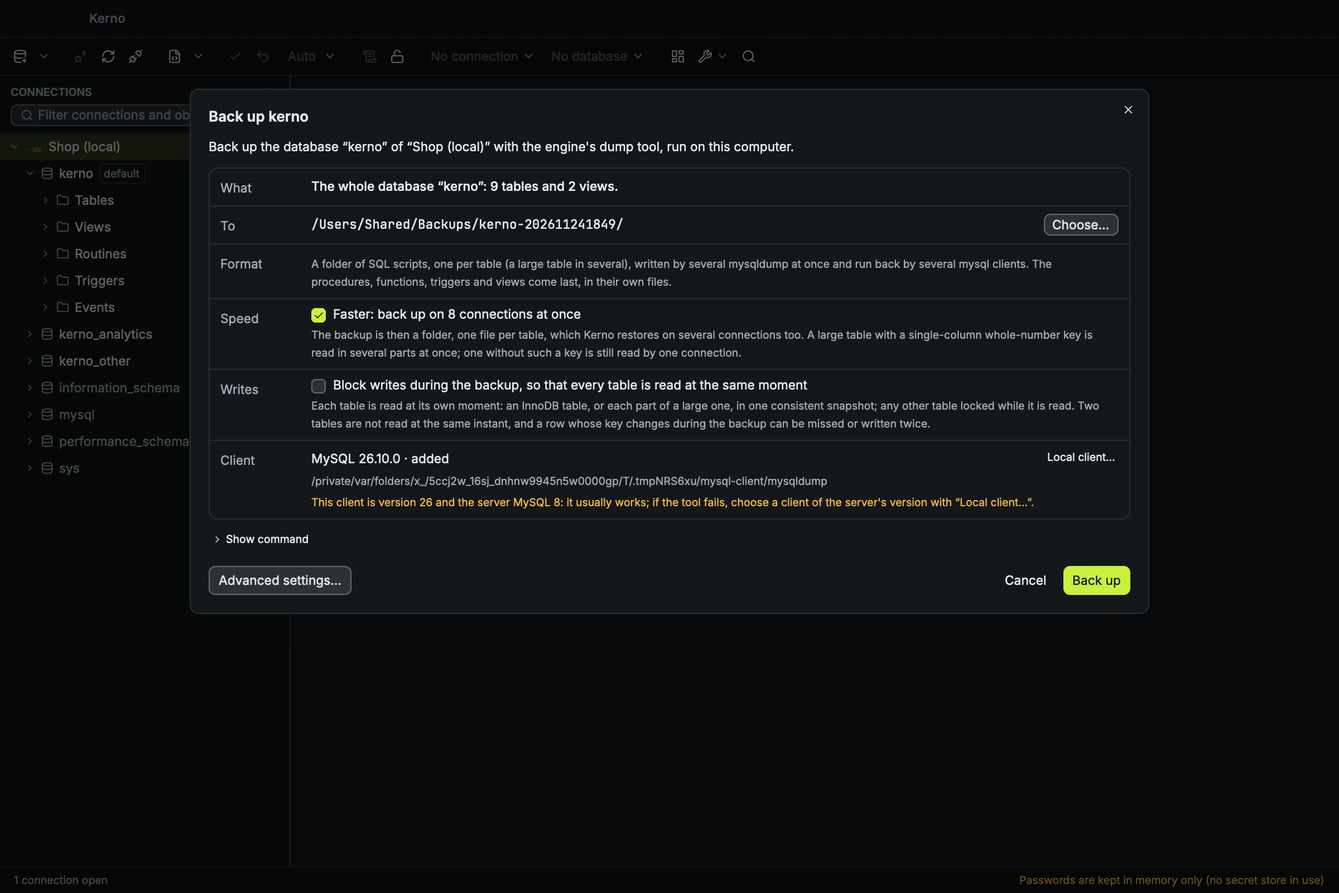
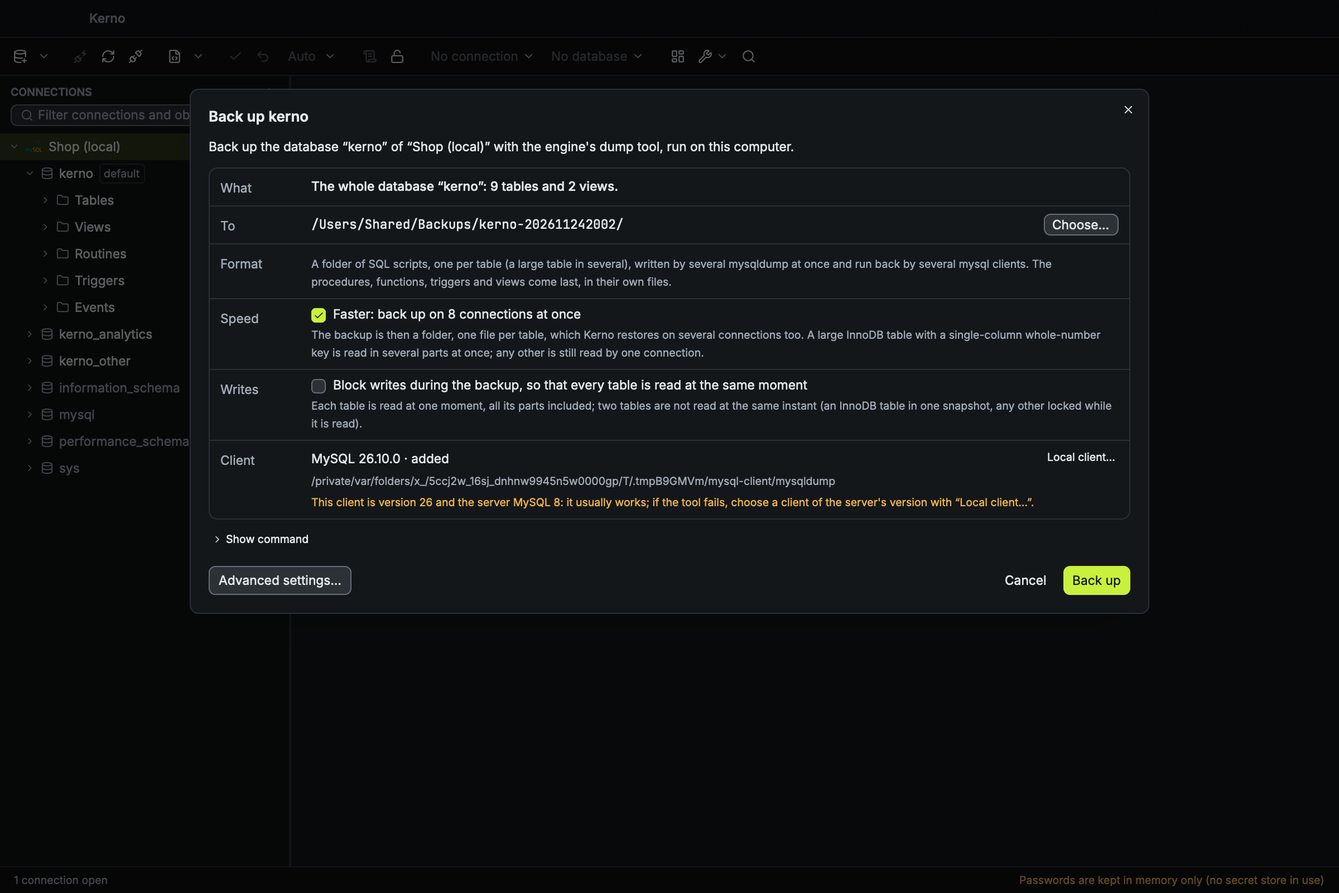
docs: K63's review, F1 to F9, D-135 amended, captures again
Claude-Session: https://claude.ai/code/session_01NqMSmdUNsq6S4HrmKZnkEG

diff --git a/docs/FEATURES.md b/docs/FEATURES.md
@@ -228,7 +228,7 @@ Tests: `crates/kerno/src/ui_tests.rs`, `crates/kerno/src/import_dialog.rs`, `cra
 | G3 A PostgreSQL restore whose backup names a role the server does not have (K35, D-108): the failure view says first which role and that the server has none (asked of the server; otherwise that the server would not let the user use it), then what to do, the tool's output below as before; read from the SQL the tool printed (pg_restore's failed command, psql's script line), in any language; an archive restored in one transaction gets "Restore without owners and privileges…" (`--no-owner --no-privileges`, shown and asked as any restore, twice on production; a run that went on past it says so), a plain script no button but what to do (create the role, or back up as an archive); the simple restore's "Leave out the backup's owners and privileges" for archives, off by default, in step with the wizard's two checkboxes | done | core `tools::roles::tests::{the_owner_case_is_read_in_either_language, the_privilege_case_names_only_the_refused_role, a_quoted_role_name_is_unquoted, a_failure_not_about_a_role_names_none, psql_points_at_the_script_line}`; unit `backup_dialog::tests::a_refused_role_is_said_with_what_to_do`; UI `ui_tests/restore_roles.rs`: `a_missing_owner_is_said_and_the_restore_runs_again_without_owners`, `a_plain_script_says_what_to_do_without_a_retry`, `an_archive_from_another_server_restores_without_its_owners` | to take: `m12-restore-roles-{light,dark}` |
 | G3 A PostgreSQL restore whose archive needs an extension the server does not have (K39, D-112): before Start, the archive's list (`pg_restore --list`) and the server (`pg_available_extensions`, `pg_roles`) say which extensions and owning roles it lacks, in plain words above the settings (simple view and wizard); the extensions are left out through `--use-list` (ticked by default, the command saying what it leaves out), the owners' box ticked; nothing shown when the server has everything or cannot be asked; a failed `CREATE EXTENSION` said after the run too (any language), with one retry leaving out the extension and the owners at once | done | core `tools::archive::tests::{the_list_names_its_database_extensions_and_owners, leaving_an_extension_out_comments_its_entries, a_failed_extension_is_read_in_any_language}`, `tools::tests::each_restore_option_gives_its_argument`; unit `backup_dialog::tests::a_missing_extension_is_said_with_what_to_do`; UI `ui_tests/restore_extensions.rs`: `what_the_server_lacks_is_said_and_left_out_before_the_run`, `a_failed_extension_and_owner_are_said_and_one_retry_leaves_out_both`, `a_real_archive_restores_without_a_left_out_extension` | none: the owner checks it in the app |
 | G3 A faster backup (K48, D-117): the simple PostgreSQL backup's "Faster: back up on N connections at once" (N the machine's cores, 8 at most; off by default; shown beside the compressed archive) writes pg_dump's directory archive with `--jobs=N`, a folder: the "To" row ends with a slash, the save panel names the folder as typed, the end says the folder's size, Show in Finder; a failed or cancelled run removes only the folder it made (one already there is refused before the run, and again just before pg_dump starts); unticking or the script gives the single file back; the wizard shows the directory format and its jobs, a task keeps them, and the way back is not a hidden change (the simple restore's "Faster" too); the folder is restored from the simple restore (open panel or typed), on several connections | done | core `tools::tests::parallel_jobs_go_with_the_directory_format_only`; UI (`ui_tests/backup_simple.rs`): `faster_backs_up_into_a_folder_and_the_wizard_shows_it`, `the_simple_restores_faster_is_not_a_hidden_change`, `a_faster_backup_removes_only_the_folder_it_made`, `a_faster_backup_is_a_folder_the_simple_restore_reads_back` (real pg_dump and pg_restore) | offscreen, not committed (D-117) |
-| G3 A faster backup and restore for MySQL and MariaDB (K63, D-135): the simple backup's "Faster: back up on N connections at once" (N as K48's; off by default) writes a folder of SQL files, one per table, by N `mysqldump` at once, a table of at least 32 MiB with a single-column integer key cut into N key ranges, then the routines, triggers and events and the views in their own files, and `kerno-backup.json` last; "Block writes during the backup, so that every table is read at the same moment" (off by default; Kerno's own `FLUSH TABLES WITH READ LOCK`, asked first with its statement, twice on production; said and not offered without RELOAD), the other way said in plain words; the wizard's Format (Plain SQL / Folder) and Jobs, a task keeps them, the way back not a hidden change; cancel and failure stop every mysqldump, release the lock, remove only the folder the run made; the restore takes the folder (open panel or typed) and its "Faster" loads it on N clients (a table's ranges side by side on InnoDB), every file checked for client commands first, a failure saying which table, the server's error and what is in; an old server's client said before the run (mysqldump 8.4 and later, and MariaDB's 11.8, on MySQL 5.1; MariaDB's on 5.5 and 5.6), Start refused, a MySQL 5.7 client found named; "prefer" without TLS for the tools on 5.1 and 5.5 | done | core `tools::mysql_folder::tests::*` (8), `tools::tests::archives_are_told_from_scripts`; drivers (`kerno-mysql/tests/folder_backup.rs`): `a_folder_backup_restores_identical_on_every_server` (8.4, MariaDB 11, 5.1 to 5.7), `a_cancelled_backup_leaves_no_tool_no_folder_and_no_lock` (8.4, 5.1), `a_failed_restore_says_what_is_in_and_a_refused_one_loads_nothing`, `a_client_that_cannot_read_5_1_is_refused_and_its_empty_backup_fails`, `the_account_s_reload_privilege_is_read`; UI (`ui_tests/mysql_folder.rs`): `a_faster_mysql_backup_is_a_folder_the_restore_loads_on_several_clients` (real mysqldump and mysql), `the_consistency_choice_is_said_and_needs_reload`, `an_old_server_needs_an_old_client` | `m12-mysql-faster-backup-{light,dark}`, `m12-mysql-faster-backup-restore-{light,dark}`, `m12-mysql-faster-backup-old-client-{light,dark}` |
+| G3 A faster backup and restore for MySQL and MariaDB (K63, D-135): the simple backup's "Faster: back up on N connections at once" (N as K48's; off by default) writes a folder of SQL files, one per table, by N `mysqldump` at once, an InnoDB table of at least 32 MiB with a single-column integer key cut into N key ranges that start together under Kerno's lock of that table (one moment per table), then the routines, triggers and events and the views in their own files, and `kerno-backup.json` last; "Block writes during the backup, so that every table is read at the same moment" (off by default; Kerno's own `FLUSH TABLES WITH READ LOCK`, asked first with its statement, twice on production; said and not offered without RELOAD; taken before the tables are listed, watched during the run, a lost lock failing the run, one that does not come within 10 s stopping the start, the confirmation naming long queries), the other way said in plain words; named tables that are gone stop the run; the options the folder sets refused in the extra arguments; `utf8mb4` with servers that have it (plain backup too); a plain backup whose client read no column fails; a restore into a database that is not empty said before the run; the wizard's Format (Plain SQL / Folder) and Jobs, a task keeps them, the way back not a hidden change; cancel and failure stop every mysqldump, release the lock, remove only the folder the run made; the restore takes the folder (open panel or typed) and its "Faster" loads it on N clients (a table's ranges side by side on InnoDB), every file checked for client commands first, a failure saying which table, the server's error and what is in; an old server's client said before the run (mysqldump 8.4 and later, and MariaDB's 11.8, on MySQL 5.1; MariaDB's on 5.5 and 5.6), Start refused, a MySQL 5.7 client found named; "prefer" without TLS for the tools on 5.1 and 5.5 | done | core `tools::mysql_folder::tests::*` (13), `tools::tests::archives_are_told_from_scripts`; drivers (`kerno-mysql/tests/folder_backup.rs`): `a_folder_backup_restores_identical_on_every_server` (8.4, MariaDB 11, 5.1 to 5.7), `a_cancelled_backup_leaves_no_tool_no_folder_and_no_lock` (8.4, 5.1), `a_failed_restore_says_what_is_in_and_a_refused_one_loads_nothing`, `a_client_that_cannot_read_5_1_is_refused_and_its_empty_backup_fails`, `the_account_s_reload_privilege_is_read`, `the_read_lock_holds_writes_until_the_end`, `a_lost_read_lock_fails_the_backup`, `named_tables_that_are_gone_stop_the_backup`, `every_range_of_a_table_reads_one_moment`, `a_read_lock_that_does_not_come_stops_the_start`, `the_sizes_are_read_fresh_and_only_a_table_above_the_threshold_is_cut`; UI (`ui_tests/mysql_folder.rs`): `a_faster_mysql_backup_is_a_folder_the_restore_loads_on_several_clients` (real mysqldump and mysql), `the_consistency_choice_is_said_and_needs_reload`, `an_old_server_needs_an_old_client`, `a_plain_backup_that_read_no_column_fails_and_removes_its_file` | `m12-mysql-faster-backup-{light,dark}`, `m12-mysql-faster-backup-restore-{light,dark}`, `m12-mysql-faster-backup-old-client-{light,dark}` |
 | G3 Objects picked in lists: schemas, the tables of a schema, All / None, complete backup, show views; the file holds only what is ticked | done | `a_backup_picks_objects_in_a_tree_and_writes_the_file`, `a_table_is_backed_up_alone_from_the_tree` | `final/backup-objects-light.png` (and -dark) |
 | G3 The tools' real options (pg_dump: format plain / custom / directory / tar, compression, encoding, INSERTs, no privileges, no owner, clean + if exists, create, jobs; mysqldump: consistency, routines, events, triggers, extended inserts, DROP TABLE, keys, hex, comments; pg_restore: clean, if exists, create, no owner, no privileges, jobs, one transaction; mysql: foreign-key checks off, log level, no beep; pg_dumpall: globals / roles / tablespaces only, schema only, role passwords, excluded databases), refused in core where the tool or the format has none; output folder + file name pattern with DBeaver's variables and a preview; extra arguments (refused when they change the server, the user, TLS or the password, or undo a protection); another user for one run | done | `the_options_page_changes_the_command`, `a_restore_asks_with_its_command_and_restores`; core: `each_pg_dump_option_gives_its_argument`, `pg_dump_refuses_what_it_cannot_do`, `each_mysqldump_option_gives_its_argument`, `each_pg_dumpall_option_gives_its_argument`, `each_restore_option_gives_its_argument`, `a_script_runs_like_a_restore_without_a_transaction`, `extra_arguments_are_split_like_a_shell`, `extra_arguments_that_change_the_route_or_carry_a_password_are_refused`, `another_user_runs_the_tool_and_no_secret_is_kept`, `file_names_fill_the_variables`, `archives_are_told_from_scripts` | `final/backup-settings-light.png` (and -dark) |
 | G3 A restore or a script asks with its command (twice on production, refused on read-only; `--create` names the archive's database it creates); a SQL file cannot run commands on this computer unasked: its check is a step of its own, the opt-in never pre-checked | done | `a_restore_asks_twice_on_production_and_is_refused_on_read_only`, `the_restore_confirmation_names_what_it_runs_and_what_a_failure_keeps`, `a_file_with_client_commands_is_refused_until_explicitly_allowed`, `a_restore_uses_the_client_sandbox_or_a_check_unless_allowed` | `m8-restore-light.png` (before the wizard) |

diff --git a/docs/DECISIONS.md b/docs/DECISIONS.md
@@ -4644,8 +4644,8 @@ stock tools, on every supported version (`kerno_core::tools::mysql_folder`).
   file per table") and Jobs; a task keeps them; the way back to the simple view is not a hidden change.
   "Block writes" is the existing "Lock all tables" (`DumpMethod::LockAllTables`) of the folder backup: a global
   read lock for the whole dump, as mysqldump's own option means, held by Kerno for all the processes.
-- **The ranges.** A table of at least `RANGE_THRESHOLD` (32 MiB of `DATA_LENGTH`, measured: see BENCH.md)
-  whose primary key is one integer column is cut into N ranges of equal key span between `MIN` and `MAX`, the
+- **The ranges.** An InnoDB table of at least `RANGE_THRESHOLD` (32 MiB of `DATA_LENGTH`, measured: see
+  BENCH.md) whose primary key is one integer column is cut into N ranges of equal key span between `MIN` and `MAX`, the
   first open below and the last open above: together they hold every integer once (tested as a property),
   so a row inserted during the backup below the minimum or above the maximum is in one of them. A sparse or
   skewed key gives ranges of unequal size: still correct, less gain. An empty table, a composite or
@@ -4653,27 +4653,56 @@ stock tools, on every supported version (`kerno_core::tools::mysql_folder`).
   nothing, and the hint says so. The sizes are read with `information_schema_stats_expiry = 0` on MySQL 8.0.3
   and later, whose cached sizes would otherwise be up to a day old; InnoDB's own size estimate still lags a bulk
   load by a few seconds.
-- **Consistency, in plain words in the wizard.** Off by default, each mysqldump reads at its own moment: an
-  InnoDB table (or range) with `--single-transaction`, any other table under `--lock-tables` (that one table,
-  while it is read). Two tables are not read at the same instant, and a row whose key is updated during the
-  backup can move from a range not yet read to one already read (missed) or the other way (written twice,
-  and the restore then stops on a duplicate key): the hint says it. Ticked, Kerno's own session holds `FLUSH
-  TABLES WITH READ LOCK` from before the first mysqldump until the last has ended, each mysqldump then with
-  `--skip-lock-tables`. It needs RELOAD (read from `information_schema.USER_PRIVILEGES` for `CURRENT_USER()`;
+- **Inside a table, one moment; across tables, each its own** (amended after the review, F4: the first
+  version let each range be its own snapshot, so a row whose key changed between two ranges' starts could be
+  lost, or written twice; the owner refused that). The ranges of a table start together while Kerno's session
+  holds `LOCK TABLES t READ`, released once every range's mysqldump has taken its snapshot: the signal is its
+  `--verbose` line "Retrieving table structure for table", which follows its `START TRANSACTION WITH
+  CONSISTENT SNAPSHOT` on every client tried (5.5 to 26.10, MariaDB's 11.8, on MySQL 5.1 to 8.4 and MariaDB
+  11). Writers of that table wait for those few tens of milliseconds; 30 s without every signal releases the
+  lock and fails the backup. A lock that does not come within 10 s, or is refused (no LOCK TABLES privilege),
+  dumps that table whole by one process, and the log says so. Only InnoDB tables are cut: a MyISAM or MEMORY
+  table has no snapshot, so it is read whole under `--lock-tables` (a choice the owner asked to weigh: keeping
+  Kerno's lock for the whole read of a cut MyISAM table would block its writers as long, for a gain at backup
+  only, since its ranges load one after the other). Across tables, each mysqldump reads at its own moment (an
+  InnoDB table with `--single-transaction`, any other under `--lock-tables`): two tables are not read at the
+  same instant, and the wizard says so in plain words. **"Block writes"** (off by default): Kerno's own session
+  holds `FLUSH TABLES WITH READ LOCK`, taken before the catalog is read (F8, as `--lock-all-tables`), until the
+  last mysqldump has ended, each mysqldump then with `--skip-lock-tables`. That session gets a long
+  `wait_timeout` and a `lock_wait_timeout` of 10 s (5.5 on; Kerno's own timer on 5.1); its `CONNECTION_ID()` is
+  checked every 2 s and at the end, and a lost session, another id or a failed `UNLOCK TABLES` fails the backup
+  in plain words ("The lock that kept writes out was lost at 21:04:12 …") and removes the folder (F2). A lock
+  that does not come within 10 s stops the start before any folder is made (F9); the confirmation names the
+  statements running for 5 s or more, and says that a statement the lock waited behind can keep others waiting
+  until it ends, even after Cancel. It needs RELOAD (read from `information_schema.USER_PRIVILEGES` for `CURRENT_USER()`;
   a privilege only an active MySQL 8 role gives is not seen, and the choice stays off): without it the choice
   says so and cannot be ticked, and a lock chosen in the wizard or a task refuses Start. Start shows the
   statement and asks first (a write in `sql_confirm`'s sense: twice on production), since every write of the
-  whole server waits. The statement itself waits behind running writes and long transactions, and blocks
-  every other write while it waits; Cancel stops it there too. Any end releases it (`UNLOCK TABLES`, else the
-  session is closed): a test cancels mid-run and then writes, on 8.4 and 5.1.
+  whole server waits. Any end releases it: a test cancels mid-run and then writes, on 8.4 and 5.1, with
+  Kerno's session still open; another writes during a run and lands only after `UNLOCK TABLES`.
 - **What else each file carries.** `--set-gtid-purged=OFF` for a MySQL mysqldump from 5.6 (MariaDB's has no
   such option): on a server with GTIDs each file would set `GTID_PURGED` and the second could not; not tested
-  against such a server (none in the compose file). The user's own `--where` is refused for a table cut into
-  ranges (mysqldump keeps the last one, every range would hold the same rows).
+  against such a server (none in the compose file). The user's extra arguments may not set what the folder
+  backup sets per file, in any spelling mysqldump takes (a prefix, a `skip-` or `loose-` form, a short letter):
+  `where`, `tab`, `tables`, `no-data`, `no-create-info`, `single-transaction`, `lock-all-tables`,
+  `lock-tables`, `add-locks`, `databases`, `all-databases`, `triggers`, `routines`, `events`, `xml`, `opt`,
+  `set-gtid-purged` (F7; the general refusal list already covered `--result-file` / `-r`).
+- **utf8mb4** (F3). The tools talk `--default-character-set=utf8mb4` (dump, plain and folder, and the
+  restore's client) when the server has it (5.5.3 on) and the client knows it (MySQL 5.5.3, MariaDB 5.5);
+  accepted by 5.7.44, 26.10, 8.4.13 and MariaDB 11.8.9. Before, mysqldump 5.7 talked `utf8` and wrote a 4-byte
+  character as `?` with exit 0: a fix of the plain backup too. On a server without utf8mb4 (5.1 to 5.5.2) the
+  tool keeps its default: such a server holds no 4-byte character.
+- **A named table that is gone** (F1): every table or view the settings name that the catalog does not hold
+  stops the run before any mysqldump, each named, with what to do (pick them again); a name that differs
+  only by case matches only where the server's `lower_case_table_names` says so. A panicked task of the pool
+  is a failure of its file (F5); the plain backup fails on "it has no fields" too (F6).
 - **Cancel and failure** stop every mysqldump (`tools::run`'s kill, every child awaited before anything is
   removed), release the lock, and remove only the folder this run made (`create_dir`: a folder already there
   is refused and never touched). "it has no fields" in a mysqldump's output is a failure even when it exits 0
   (the old client below, with `--skip-triggers`, exits 0 and writes no table).
+- **A restore into a database that is not empty** is said before the run: the backup's tables it already
+  holds are dropped and created again from the backup, its other tables stay (or, for a backup made without
+  DROP TABLE statements, the restore stops at the first of them).
 - **The restore.** The folder is offered by the restore as one backup (the open panel takes folders for
   MySQL too). "Faster: restore on N connections at once", off by default as PostgreSQL's: N `mysql` clients,
   one file each; a table's first file alone, then its ranges side by side when its engine at the backup

diff --git a/docs/plans/M12.md b/docs/plans/M12.md
@@ -4125,6 +4125,26 @@ stays open) [no UNLOCK; the folder kept], `a_failed_restore_says_what_is_in_and_
 normalised comparison off (a hidden change); the confirmation off], `an_old_server_needs_an_old_client` (5.1,
 stand-in clients 26.10 and 5.7.99) [`refused` never set; "prefer" kept for the tools].
 
+**The review of ccc0b47** (an independent reviewer, three findings confirmed by a run; fixed on top):
+
+| | What was wrong | The fix | The test [mutation seen failing] |
+|---|---|---|---|
+| F1 | A table named in the settings that the database no longer holds was skipped: the backup succeeded with less, or nothing | After the catalog, every name the catalog lacks stops the run before any mysqldump, each named, with what to do; a name that differs only by case matches only where `lower_case_table_names` says so | core `a_name_the_catalog_does_not_hold_is_said_and_case_follows_the_server`; driver `named_tables_that_are_gone_stop_the_backup` (8.4: `kept`, `orders` for `Orders`, `renamed_away`) [the check skipped] |
+| F2 | The read lock's session could be closed by the server (idle timeout, proxy) mid-run, and the backup still said it succeeded | That session gets a long `wait_timeout`, its `CONNECTION_ID()` is checked every 2 s and at the end; a lost session, another id or a failed `UNLOCK TABLES` fails the run ("The lock that kept writes out was lost at 21:04:12 …") and removes the folder | driver `a_lost_read_lock_fails_the_backup` (8.4 and 5.7: Kerno's session killed during the run) [the end check off] |
+| F3 | mysqldump 5.7 (the client the old-server message recommends) talks `utf8` and wrote a 4-byte character as `?`, exit 0; the plain backup too | `--default-character-set=utf8mb4` for the dump (plain and folder) and the restore's client when the server has utf8mb4 (5.5.3 on) and the client knows it (MySQL 5.5.3, MariaDB 5.5): checked accepted by 5.7.44, 26.10, 8.4.13 and MariaDB 11.8.9 | core `the_tools_talk_utf8mb4_where_the_server_and_the_client_have_it`; driver round trip with a 4-byte character and every byte value, compared with `HEX()`, on every server [`utf8mb4()` false: 5.5 to 5.7 restored `?`] |
+| F4 | Each range of a cut table was its own snapshot: a row whose key changed between two ranges' starts could be lost or doubled | The ranges of a table start together while Kerno's session holds `LOCK TABLES t READ`, released once every range's snapshot is taken (mysqldump's "Retrieving table structure" line, which follows its transaction on every client tried), 30 s at most; a table whose lock does not come within 10 s, or is refused, is dumped whole by one process and the log says so; only InnoDB tables are cut | driver `every_range_of_a_table_reads_one_moment` (8.4, MariaDB, 5.1: the second range starts a second late, a row's key moves from the first range to the second in between: restored once) [the table's lock removed: the row doubled]; core plan test (a large MyISAM table not cut) |
+| F5 | A pool task that panicked was neither done nor failed | A task's join error is a failure of its file, with its label | core `a_pool_task_that_panics_fails_its_file` [the join error skipped] |
+| F6 | The plain backup ignored mysqldump's "it has no fields" (exit 0, no table) | The same check in the plain backup: such a run fails and removes its file | UI `a_plain_backup_that_read_no_column_fails_and_removes_its_file` [the check off] |
+| F7 | `-w…` or `--wher=` in the extra arguments came after a range's `--where` and won | The folder backup refuses, in every spelling mysqldump takes (any prefix, `skip-`/`loose-` forms, short letters), the options it sets per file: `where`, `tab`, `tables`, `no-data`, `no-create-info`, `single-transaction`, `lock-all-tables`, `lock-tables`, `add-locks`, `databases`, `all-databases`, `triggers`, `routines`, `events`, `xml`, `opt`, `set-gtid-purged`; `-w -T -d -t -x -l -B -A -X -E -R`. Found: the general list already refuses `--result-file`/`-r` and their prefixes; `-T`/`--tab`, `-w`, `-d`, `-t`, `-x`, `-l`, `-B`, `-A` were not refused | core `the_folder_backup_refuses_the_options_it_sets_itself_in_every_spelling` [the check off] |
+| F8 | The catalog and the key bounds were read before the global read lock: a table made in between was missed | The lock first, then the catalog, as `--lock-all-tables` | driver `the_read_lock_holds_writes_until_the_end` checks in the log that the lock comes before the tables are listed (no mutation: the race itself, a table made between the two, is not reproduced) |
+| F9 | A read lock waiting behind a long statement stalled every write, also after Cancel | The lock session's `lock_wait_timeout` is 10 s (5.5 on; Kerno's own timer on 5.1): a lock that does not come stops the start, in plain words, before any folder; the confirmation names the statements running for 5 s or more ("A query has been running for 4 min 12 s (session 1234): …") and its words say what Cancel does and does not end | driver `a_read_lock_that_does_not_come_stops_the_start` (8.4, a 16 s read) [the wait raised to 30 s]; unit `the_read_lock_s_confirmation_names_the_long_statements` |
+| — | Nothing proved the lock was held | | driver `the_read_lock_holds_writes_until_the_end` (8.4 and 5.1: a write during the run lands after `UNLOCK TABLES`) [the FLUSH removed] |
+| — | A restore into a database that is not empty | Said before the run: the backup's tables it already holds are dropped and created again, its other tables stay (or, without DROP TABLE statements, the restore stops at the first) | UI `a_faster_mysql_backup_is_a_folder_the_restore_loads_on_several_clients` (target with `one` and `extra`) [the sentence off] |
+| — | The size threshold's real path | | driver `the_sizes_are_read_fresh_and_only_a_table_above_the_threshold_is_cut` (8.4: sizes cached while empty, 170,000 and 110,000 rows loaded: the first cut, the second not) [the stats expiry left at the default] |
+
+Release notes material: F3 also fixes the plain MySQL backup with a client that defaults to `utf8` (mysqldump 5.7 and
+older): 4-byte characters (emoji, some CJK) were written as `?`.
+
 **Measured** (BENCH.md): on MySQL 8.4 with 8 processes, `kerno_analytics` (one 238 MB table cut in 8)
 backed up in 0.81–0.83 s against 1.79–1.88 s and restored in 6.5–8.4 s against 14.3–17.1 s; eight tables of 30 MB
 in 0.98–1.23 s against 1.80–2.85 s, restored in 6.5–7.5 s against 14.8–17.2 s; on 5.1 (one run) 0.68 s against

diff --git a/docs/GUIDE.md b/docs/GUIDE.md
@@ -631,11 +631,21 @@ on N connections at once** loads several tables at a time (the parts of a large 
 failed restore stops the others and says which table, the server's error, what is loaded and what is not.
 
 With "Faster", **Block writes during the backup, so that every table is read at the same moment** (off by
-default) says how the backup is consistent. Off, each table is read at its own moment: an InnoDB table, or each
-part of a large one, in one snapshot, any other table locked while it is read; two tables are not read at the
-same instant. On, Kerno holds `FLUSH TABLES WITH READ LOCK` on the server from before the first table until the
-last: every write on that server waits until the backup ends, so Kerno shows the statement and asks first
-(twice on production). It needs the RELOAD privilege; an account without it is told so and cannot tick it.
+default) says how the backup is consistent. Off, each table is read at one moment, all its parts included (the
+parts of a large table start together while Kerno holds that table's read lock for a moment; a table whose lock
+does not come within 10 s is read whole), but two tables are not read at the same instant. On, Kerno holds
+`FLUSH TABLES WITH READ LOCK` on the server from before it lists the tables until the last is read: every write
+on that server waits until the backup ends, so Kerno shows the statement and asks first (twice on production),
+naming any query that has been running for 5 s or more, since the lock waits for it. A lock that does not come
+within 10 s stops the backup before it starts; one lost during the run (the server closed Kerno's session)
+fails it. It needs the RELOAD privilege; an account without it is told so and cannot tick it. The extra
+arguments may not set what the folder backup sets for each file (`--where`, `--tab`, `--no-data` and the like).
+
+A folder restored into a database that already holds some of the backup's tables is said before the run: those
+tables are dropped and created again from the backup; the database's other tables stay.
+
+MySQL and MariaDB tools talk `utf8mb4` with a server that has it (5.5.3 on): a MySQL 5.7 client no longer
+writes a 4-byte character (an emoji) as `?`, in the plain backup as in the folder.
 
 An old server needs an old client. MySQL's `mysqldump` 8.4 and later, and MariaDB's `mariadb-dump` 11.8, read
 no column of a MySQL 5.1 table (the backup would hold no table), and `mariadb-dump` cannot read MySQL 5.5 and

diff --git a/docs/PROGRESS.md b/docs/PROGRESS.md
@@ -1809,3 +1809,16 @@ workspace is green there: 2,101 passed, 3 ignored (the three measurements ignore
   in 0.8 s against 1.8 s, restored in 6.5 to 8.4 s against 14.3 to 17.1 s; eight tables of 30 MB about as much;
   on 5.1 about 1.7 and 2 times faster (one run).
 - Not verified: a GTID server, MySQL 8.0's clients on 5.1, an SSH tunnel, a pass in the real app.
+
+## 2026-11-24 — K63: the review's nine findings fixed
+
+- An independent review of ccc0b47 found nine faults, three confirmed by a run. Fixed on top, each with a test
+  seen failing before its fix (docs/plans/M12.md, the K63 table): a named table that is gone now stops the
+  run (F1); the read lock is watched, and a lost one fails the backup (F2); the tools talk `utf8mb4`, so a 5.7
+  client no longer writes a 4-byte character as `?`, in the plain backup too (F3); inside one table every range
+  reads one moment, under Kerno's short lock of that table, and only InnoDB tables are cut (F4); a panicked
+  task fails its file (F5); the plain backup fails on "it has no fields" (F6); the extra arguments may not set
+  what the folder sets, in any spelling (F7); the lock is taken before the tables are listed (F8); a lock that
+  does not come within 10 s stops the start, and the confirmation names the long queries (F9).
+- Added: a test that the lock is held during the run, a restore into a database that is not empty (said
+  before the run), and the size threshold's real path. D-135 amended (F4's rule above all).

diff --git a/docs/BENCH.md b/docs/BENCH.md
@@ -262,6 +262,10 @@ The 1-minute load at the start of each run was between 7.0 and 7.9 (the test ser
 agents' runs). "Faster" backs up about 2.2 times faster and restores about 2.2 times faster on 8.4, on one large
 table cut into ranges as on eight tables; about 1.7 and 2 times on 5.1. The files are the same size.
 
+These were taken before the review's F4 (D-135): the ranges of one table now start together while Kerno holds
+that table's read lock, which adds the start of the processes (tens of milliseconds) to the backup of a cut
+table. Not measured again.
+
 **The threshold** (`RANGE_THRESHOLD`, 32 MiB): one table of `big_table`'s rows, backed up and restored whole by
 one process, then cut into 8 ranges, three runs each (load 3 to 6):
 
